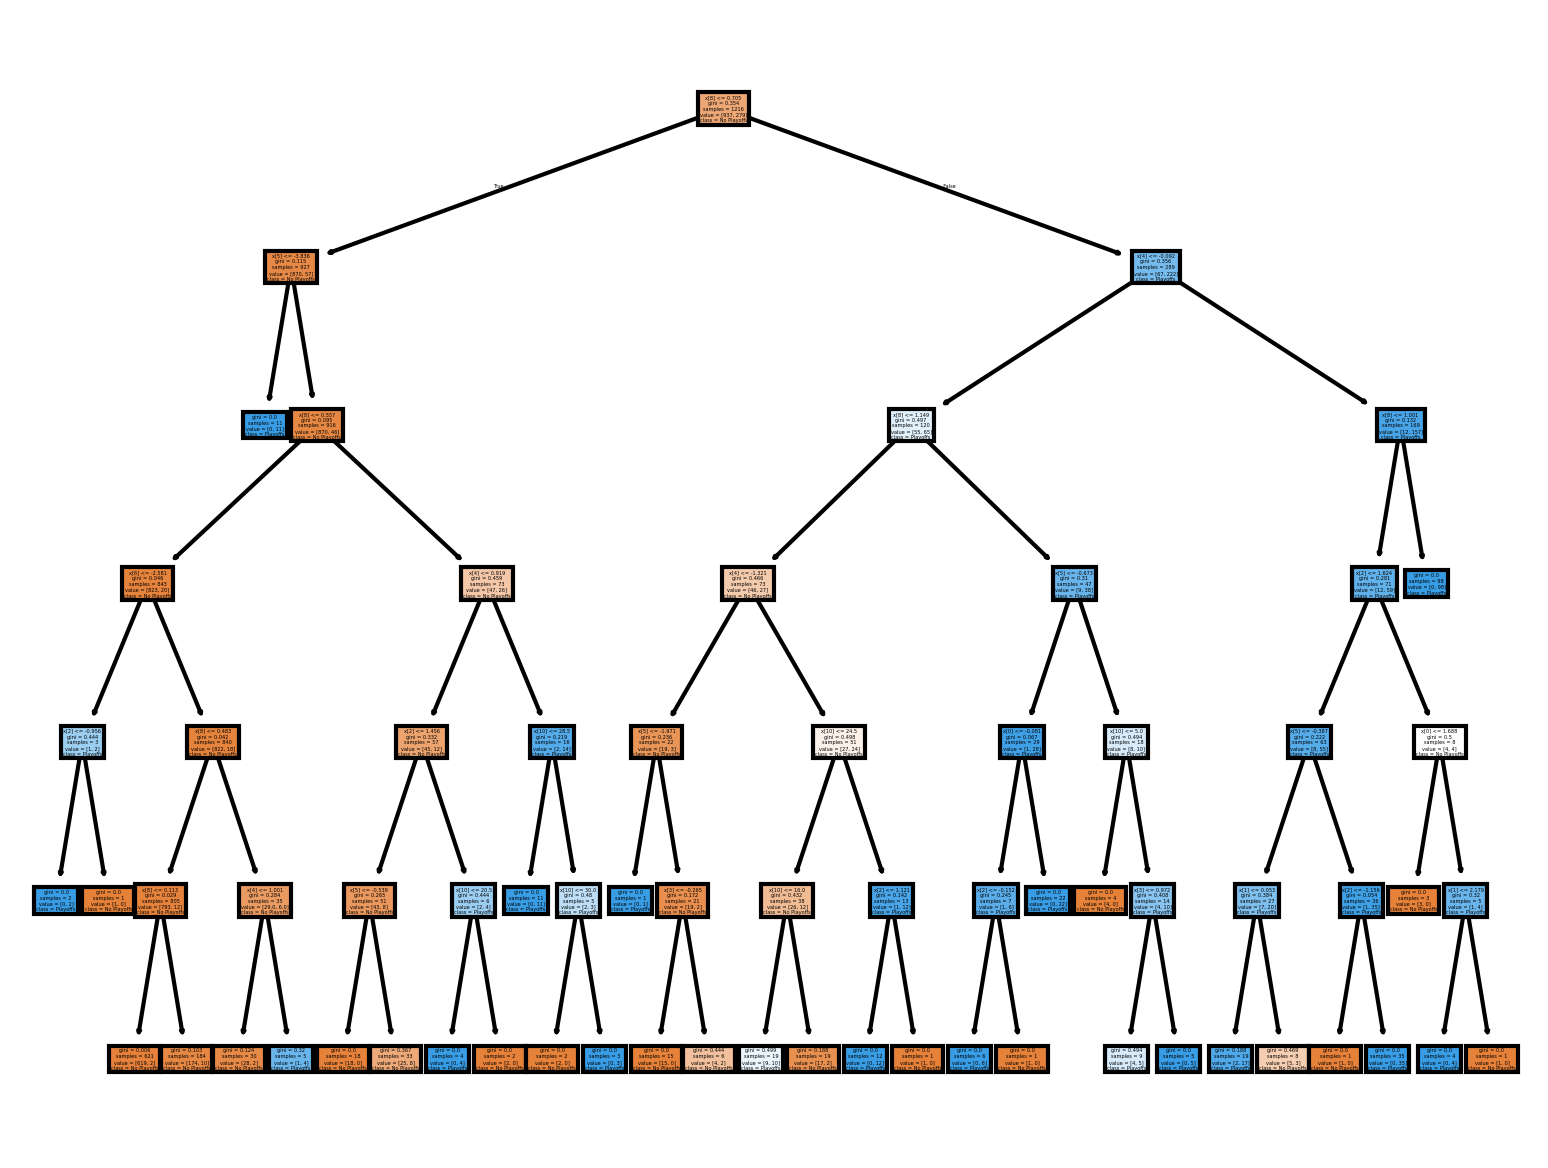
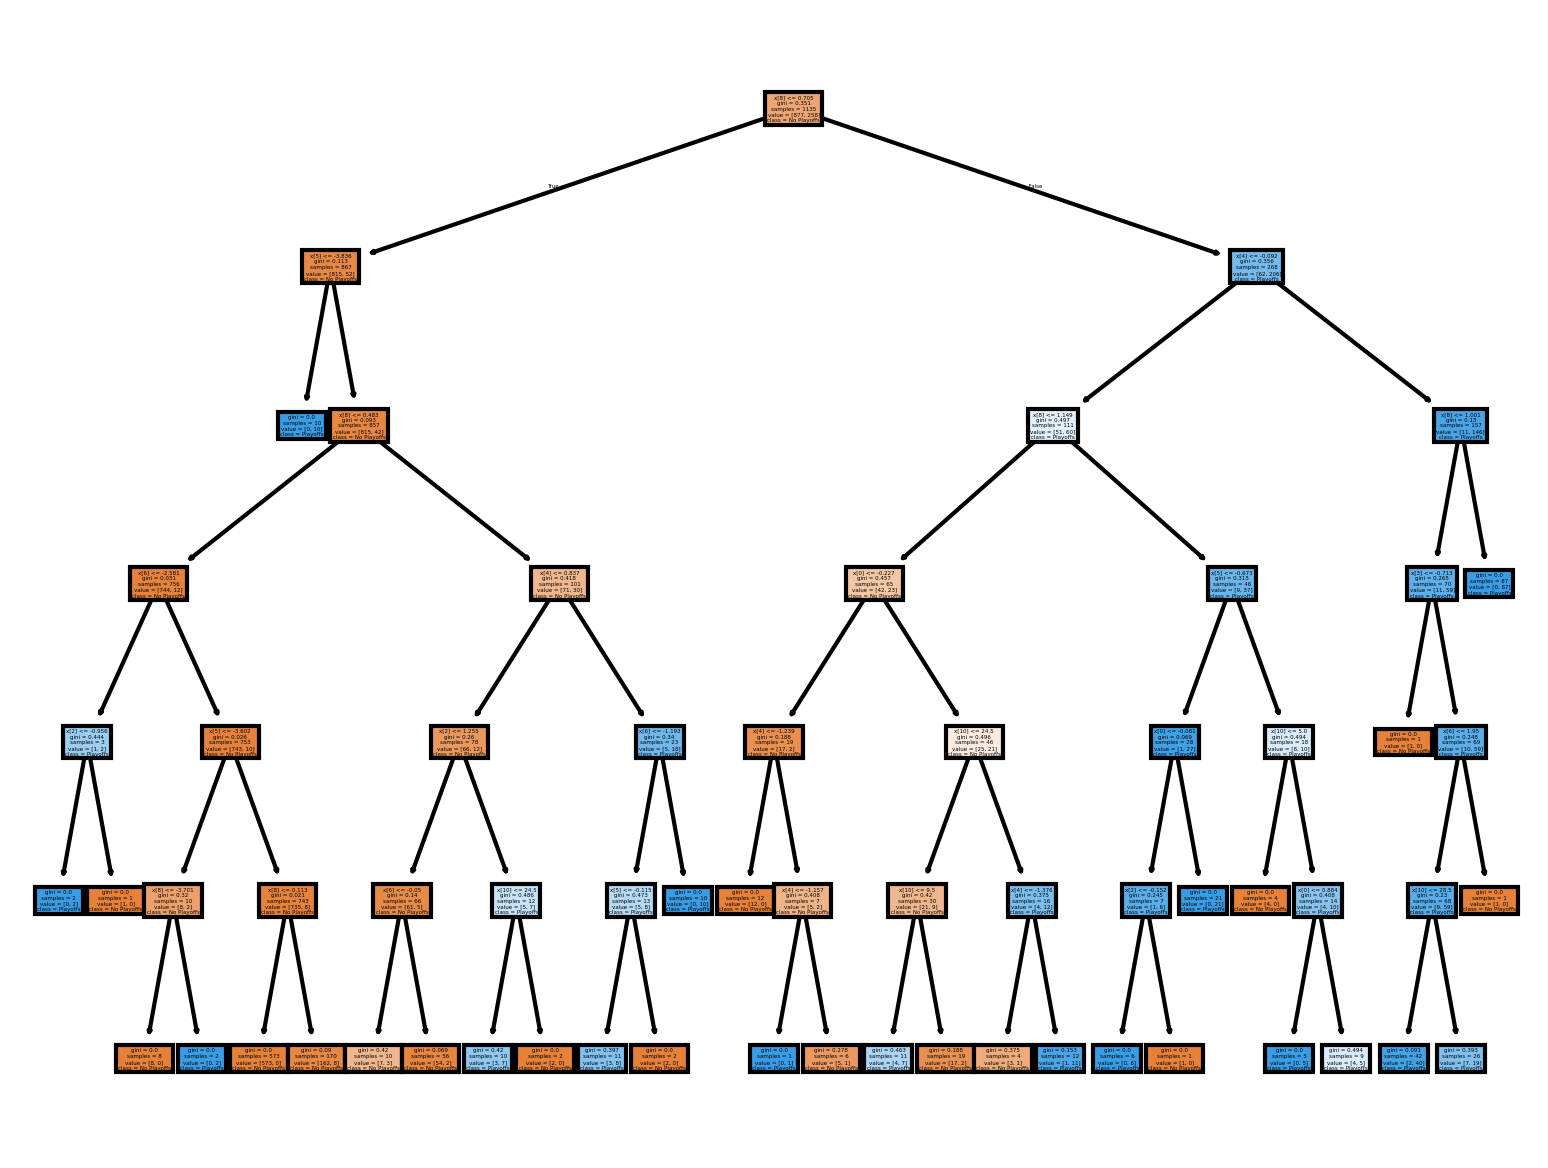
added a defined training/test split which impacted results and associated graphs

diff --git a/main.py b/main.py
@@ -304,11 +304,11 @@ def plot_learning_curves_comparison(nn1_val, nn2_val, nn1_label, nn2_label, plot
 def main():
 
     # ****FUNCTION CALLS TO RUN ALL MODELS****
-    # print(lin_reg())
-    # print(decision_tree())
+    print(lin_reg())
     # print(regression_nn())
-    # print(classification_nn())
     # print(regression_wide_and_deep_nn())
+    print(decision_tree())
+    # print(classification_nn())
     # print(classification_multi_input_nn())
 
     # ****RUNNING MODELS TO GENERATE VALIDATION METRIC COMPARISON GRAPH****

diff --git a/src/data_preprocessing.py b/src/data_preprocessing.py
@@ -54,7 +54,7 @@ def split_data(X, y):
     # ****FUNCTION THAT SPLITS DATA INTO TRAINING AND TEST SETS****
 
     X_train, X_test, y_train, y_test = train_test_split(
-        X, y, random_state=42)
+        X, y, test_size=0.3, random_state=42)
 
     return X_train, X_test, y_train, y_test
 
